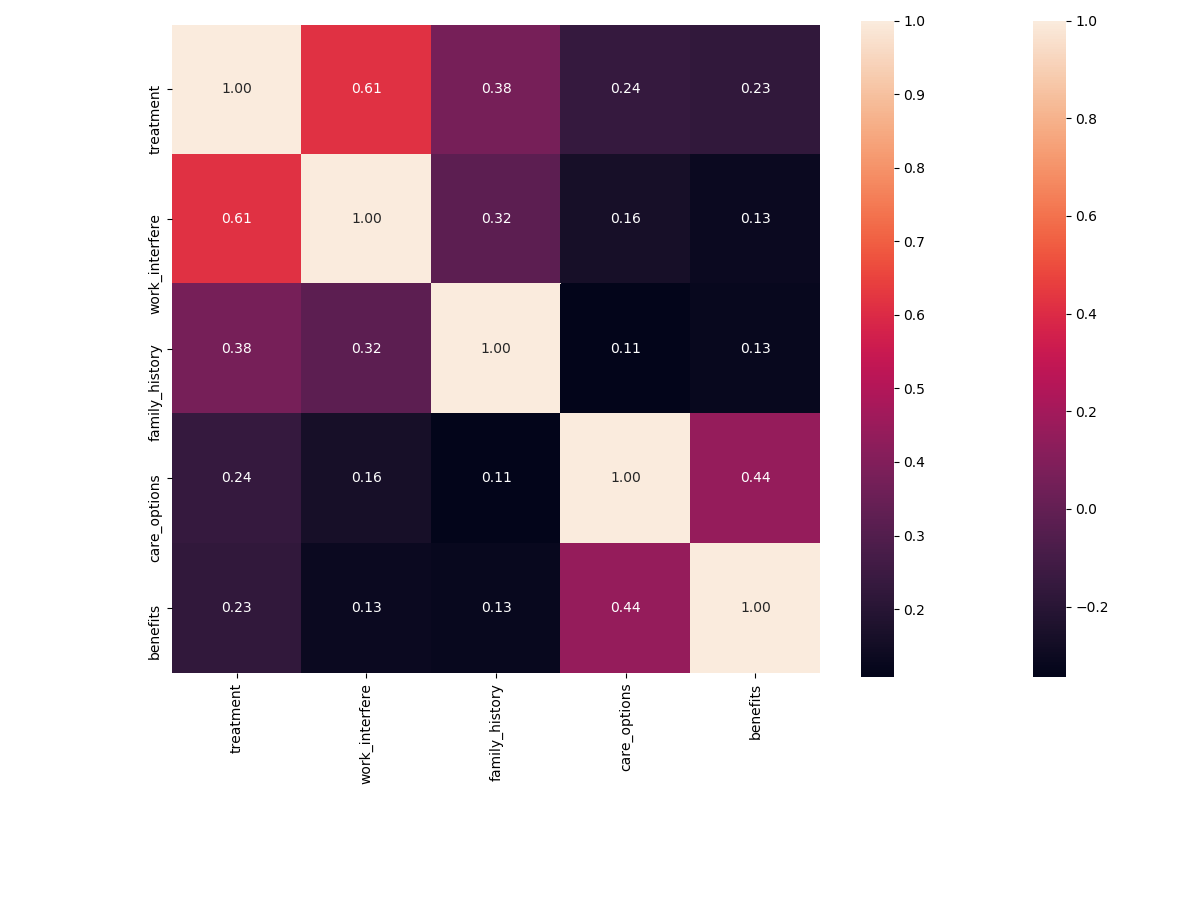
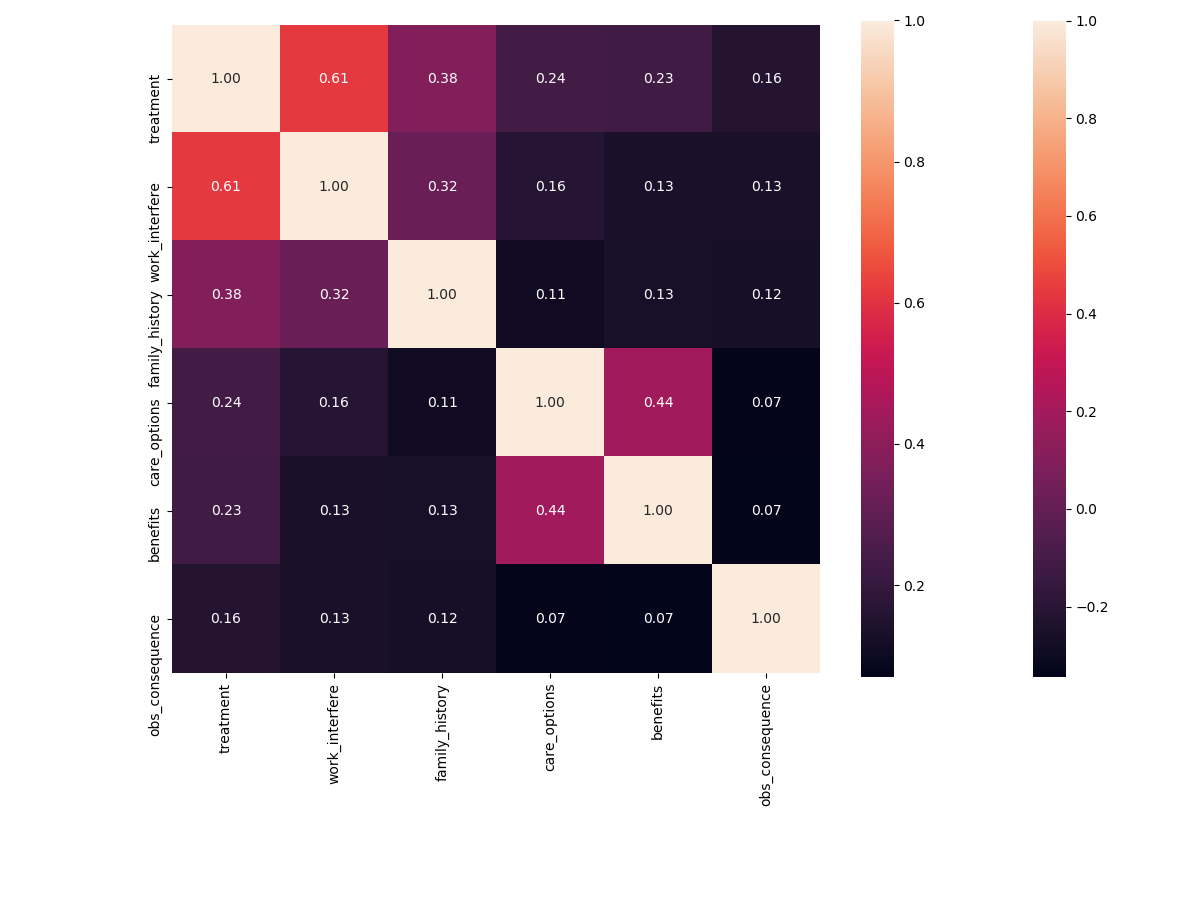
updated figure

diff --git a/analyze_data.py b/analyze_data.py
@@ -83,6 +83,10 @@ def clean_data(input_file):
     train_df['age_range'] = pd.cut(train_df['Age'], [0, 20, 30, 65, 100],
             labels=["0-20", "21-30", "31-65", "66-100"], include_lowest=True)
 
+    # Scale age
+    scaler = MinMaxScaler()
+    train_df['Age'] = scaler.fit_transform(train_df[['Age']])
+
     # Clean self-employed
     # Replace NaN with 'No'
     # print(train_df['self_employed'].unique())
@@ -128,7 +132,7 @@ def get_corrmat(train_df):
     # plt.show()
 
     # Top 5 factors that correlate with treatment
-    cols = corrmat.nlargest(5, 'treatment')['treatment'].index
+    cols = corrmat.nlargest(6, 'treatment')['treatment'].index
     coefs = np.corrcoef(train_df[cols].values.T)
     # sns.set(font_scale=1.25)
     sns.heatmap(coefs, cbar=True, annot=True, square=True, fmt='.2f',
